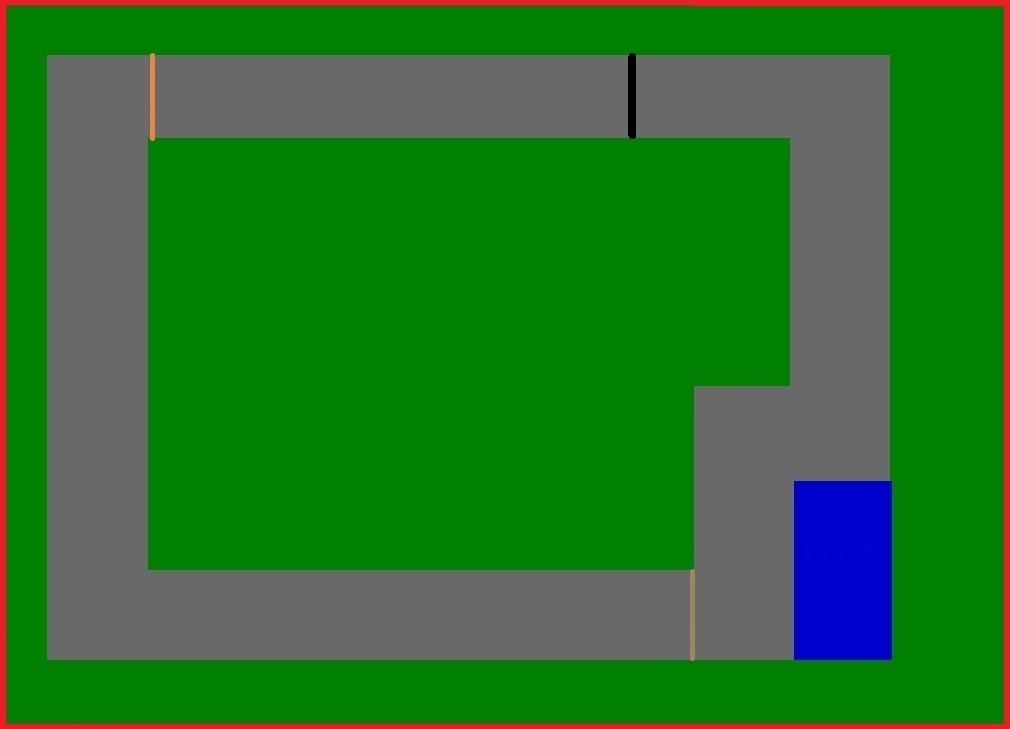
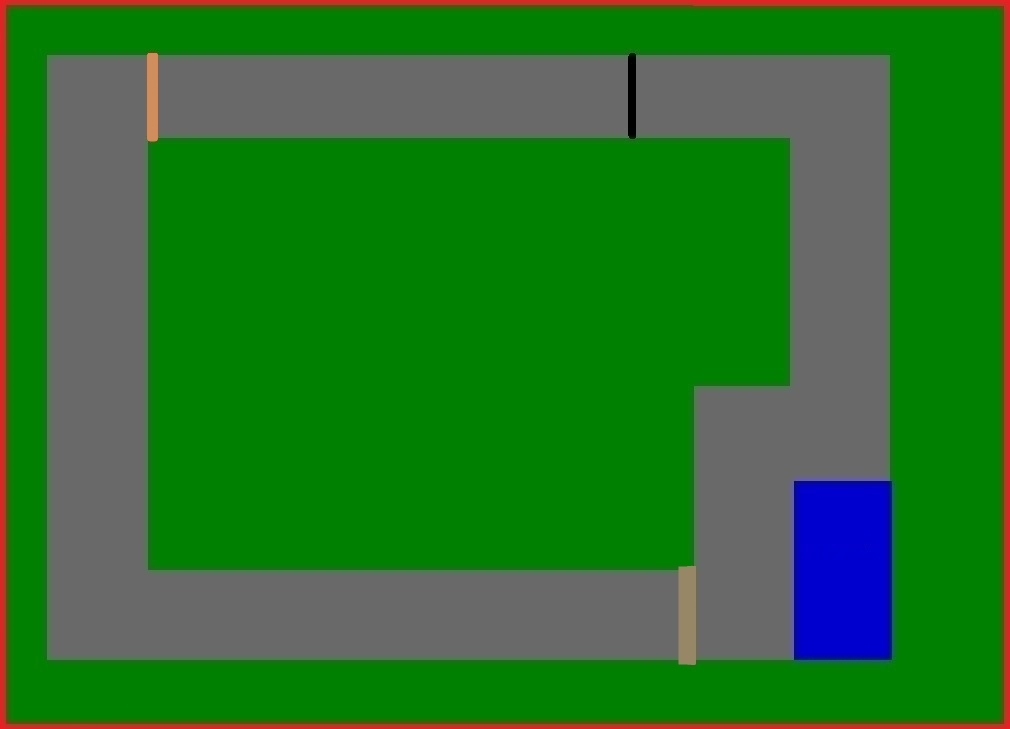
Check werkt

diff --git a/Racegame/Racegame/Racegame/Vehicle.cs b/Racegame/Racegame/Racegame/Vehicle.cs
@@ -19,8 +19,10 @@ namespace Racegame
         public Color kleur { get; set; }
         public int Health { get; set; }
         public int Fuel { get; set; }
+        public int Laps { get; set; }
         public Boolean gras { get; set; }
-        
+        public Boolean CheckpointOne { get; set; }
+        public Boolean CheckpointTwo { get; set; }
         public Bitmap image;
         /// <summary>
         /// De constructor
@@ -35,6 +37,7 @@ namespace Racegame
             this.AxisSpeed = 1;
             this.Health = 300;
             this.Fuel = 100;
+            this.Laps = 1;
             //Checkt de kleur waar vehicle op positie staat
             image = new Bitmap(Racegame.Properties.Resources.map);
         }
@@ -116,6 +119,32 @@ namespace Racegame
                         Console.WriteLine("Dood");
                         respawn();
                     }
+                    //Finish
+                    else if (kleur.A.Equals(255) && kleur.R.Equals(0) && kleur.G.Equals(0) && kleur.B.Equals(0))
+                    {
+                        Console.WriteLine("Finish");
+                        if(CheckpointOne == true && CheckpointTwo == true)
+                        {
+                            lap_count();
+                            CheckpointOne = false;
+                            CheckpointTwo = false;
+                        }
+                    }
+                    //Checkpoint een
+                    else if (kleur.A.Equals(255) && kleur.R.Equals(151) && kleur.G.Equals(135) && kleur.B.Equals(102))
+                    {
+                        Console.WriteLine("CheckPoint1");
+                        CheckpointOne = true;
+                    }
+                    //Checkpoint twee
+                    else if (kleur.A.Equals(255) && kleur.R.Equals(208) && 	kleur.G.Equals(142) && kleur.B.Equals(94))
+                    {
+                        if(CheckpointOne == true)
+                        {
+                            Console.WriteLine("checkpoint2");
+                            CheckpointTwo = true;
+                        }
+                    }   
                     else
                     {
                         gras = false;
@@ -139,6 +168,10 @@ namespace Racegame
             Speed.X = 0;
             Speed.Y = 0;
             Position = Spawn;
+        }
+        public void lap_count()
+        {
+            this.Laps++;
         }
     }
 }

diff --git a/Racegame/Racegame/Racegame/Game.cs b/Racegame/Racegame/Racegame/Game.cs
@@ -155,7 +155,7 @@ namespace Racegame
                 vehicle1.checklocation();
                 vehicle2.checklocation();
                 //De auto(als in voertuig) debugger! deze controleerd nu op de locatie
-                MousePosition.Text = (Convert.ToString(vehicle1.Position));
+                MousePosition.Text = (Convert.ToString(vehicle1.CheckpointOne+" "+vehicle1.CheckpointTwo));
                 //Tegen het kapot gaan van onze game
                 vehicle1.getColor();
                 vehicle2.getColor();
